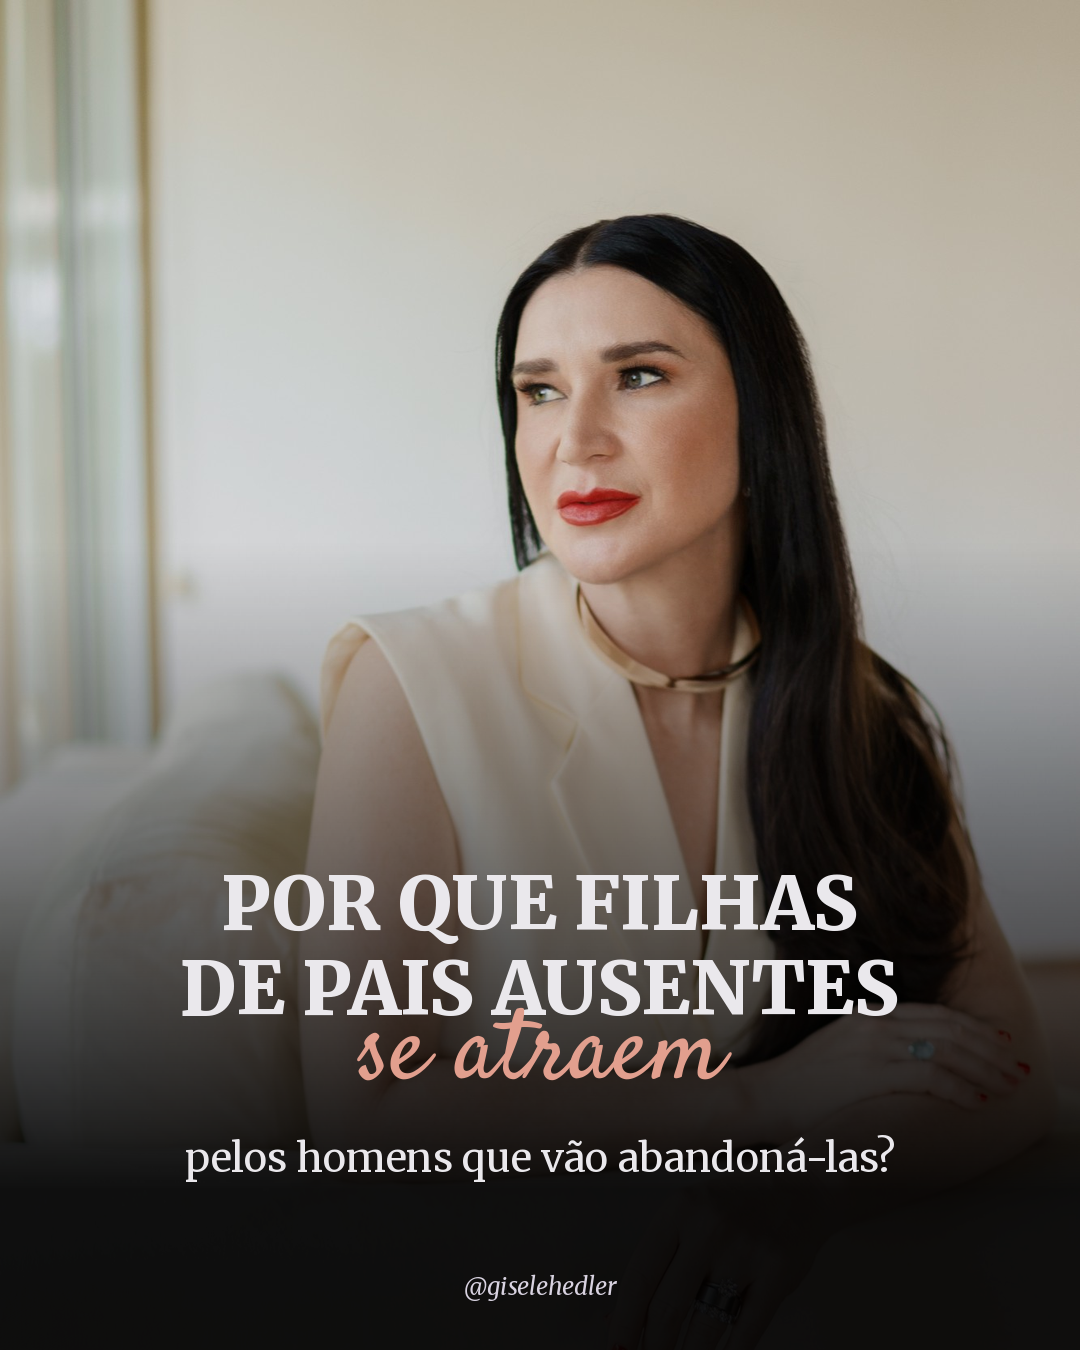
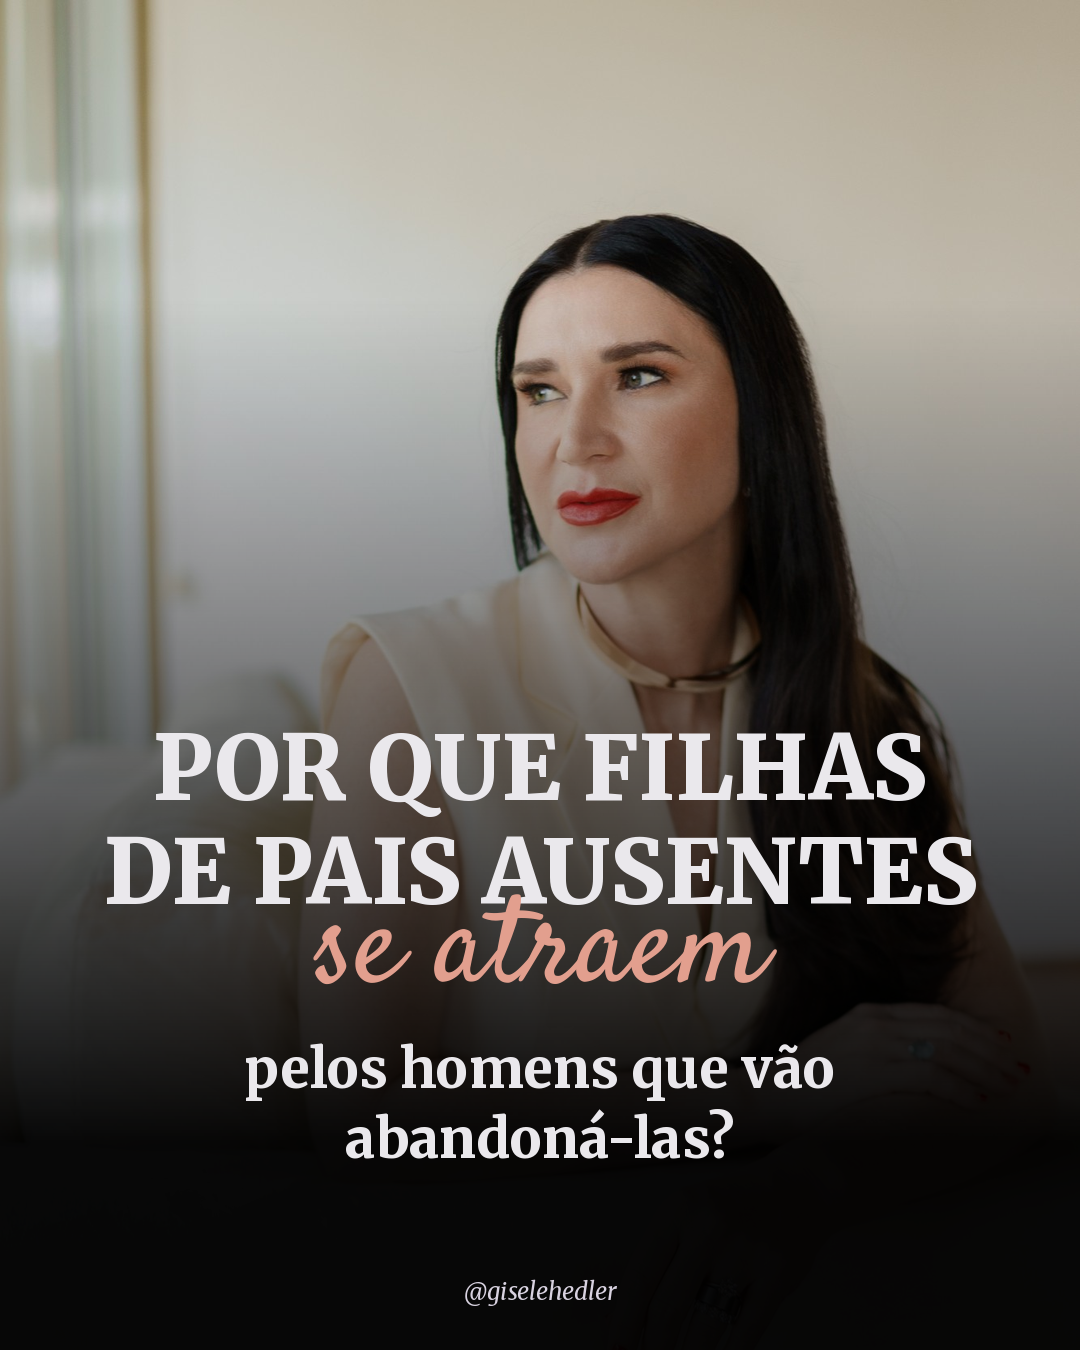
Carrossel pais ausentes: capa e final com degradê mais alto e texto maior
Claude-Session: https://claude.ai/code/session_01UQX7rfK53Xmv3nMSefSp7k

diff --git a/carrosseis/pais-ausentes-quinta/montar.py b/carrosseis/pais-ausentes-quinta/montar.py
@@ -53,10 +53,12 @@ def foto(path,foco_y=0.3):
     return im.crop((x,y,x+W,y+H))
 
 # 1 capa
-img=gradiente(foto(IM+'12.jpg',0.0),de=0.40); d=ImageDraw.Draw(img)
-y=titulo_cursiva(d,930,['POR QUE FILHAS','DE PAIS AUSENTES'],'se atraem',tsz=74,csz=100)
-bloco(d,y+40,'pelos homens que vão abandoná-las?',f(REG,40),BRANCO)
-d.text((W/2,H-55),'@giselehedler',font=f(ITA,24),fill='#d8d2e0',anchor='ms')
+img=gradiente(foto(IM+'12.jpg',0.0),de=0.22,forca=245); d=ImageDraw.Draw(img)
+y=titulo_cursiva(d,800,['POR QUE FILHAS','DE PAIS AUSENTES'],'se atraem',tsz=90,csz=124)
+y+=40
+for l in ['pelos homens que vão','abandoná-las?']:
+    d.text((W/2,y),l,font=f(B8,54),fill=BRANCO,anchor='ms'); y+=70
+d.text((W/2,H-50),'@giselehedler',font=f(ITA,24),fill='#d8d2e0',anchor='ms')
 img.save(OUT+'01.png')
 
 # 2 teste 1
@@ -173,12 +175,18 @@ assina(d,9); img.save(OUT+'09.png')
 im=Image.open(IM+'13.jpg').convert('RGB').crop((60,440,1260,1940))
 r=W/im.width; im=im.resize((W,int(im.height*r)),Image.LANCZOS)
 img=Image.new('RGB',(W,H),'#000'); img.paste(im.crop((0,0,W,min(H,im.height))),(0,0))
-img=gradiente(img,de=0.30,forca=245); d=ImageDraw.Draw(img)
-y=titulo_cursiva(d,860,['VOCÊ NÃO PRECISA PROVAR'],'que merece ficar',tsz=54,csz=88)
-y+=20
-y=bloco(d,y,'Na Quinta da Mente eu aprofundo isso, ao vivo e de graça. Quinta, 18:59.',f(REG,34),BRANCO)
-y+=10
-bloco(d,y,'Comenta 5524 que eu te mando o link.',f(B8,40),ROSE)
+img=gradiente(img,de=0.20,forca=248)
+topo=Image.new('L',(1,H))
+for yy in range(H): topo.putpixel((0,yy),int(255*max(0,1-yy/170)))
+img.paste(Image.new('RGB',(W,H),'#000'),(0,0),topo.resize((W,H)))
+d=ImageDraw.Draw(img)
+y=titulo_cursiva(d,760,['VOCÊ NÃO PRECISA','PROVAR'],'que merece ficar',tsz=82,csz=112)
+y+=30
+for l in ['Na Quinta da Mente eu aprofundo isso,','ao vivo e de graça. Quinta, 18:59.']:
+    d.text((W/2,y),l,font=f(REG,40),fill=BRANCO,anchor='ms'); y+=54
+y+=24
+for l in ['Comenta 5524','que eu te mando o link.']:
+    d.text((W/2,y),l,font=f(BLK,50),fill=ROSE,anchor='ms'); y+=64
 d.text((W/2,H-45),'@giselehedler',font=f(ITA,24),fill='#d8d2e0',anchor='ms')
 img.save(OUT+'10.png')
 
